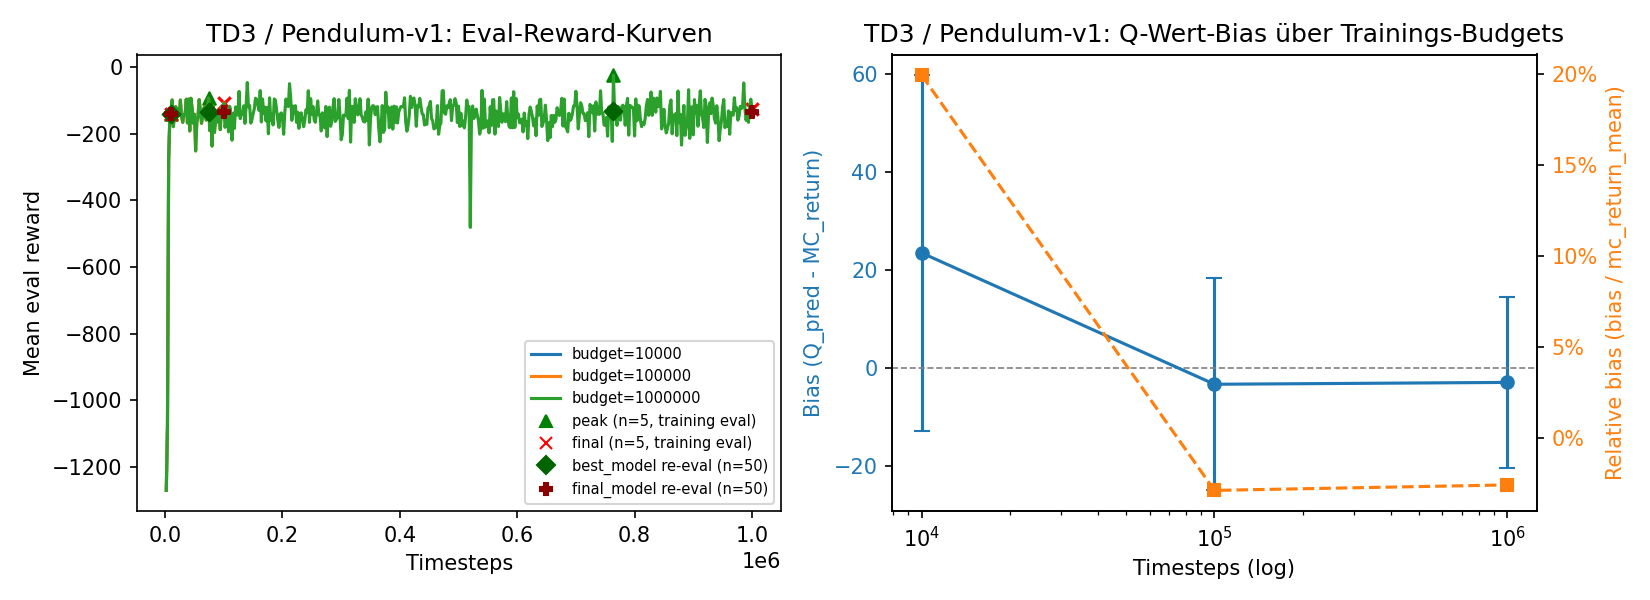
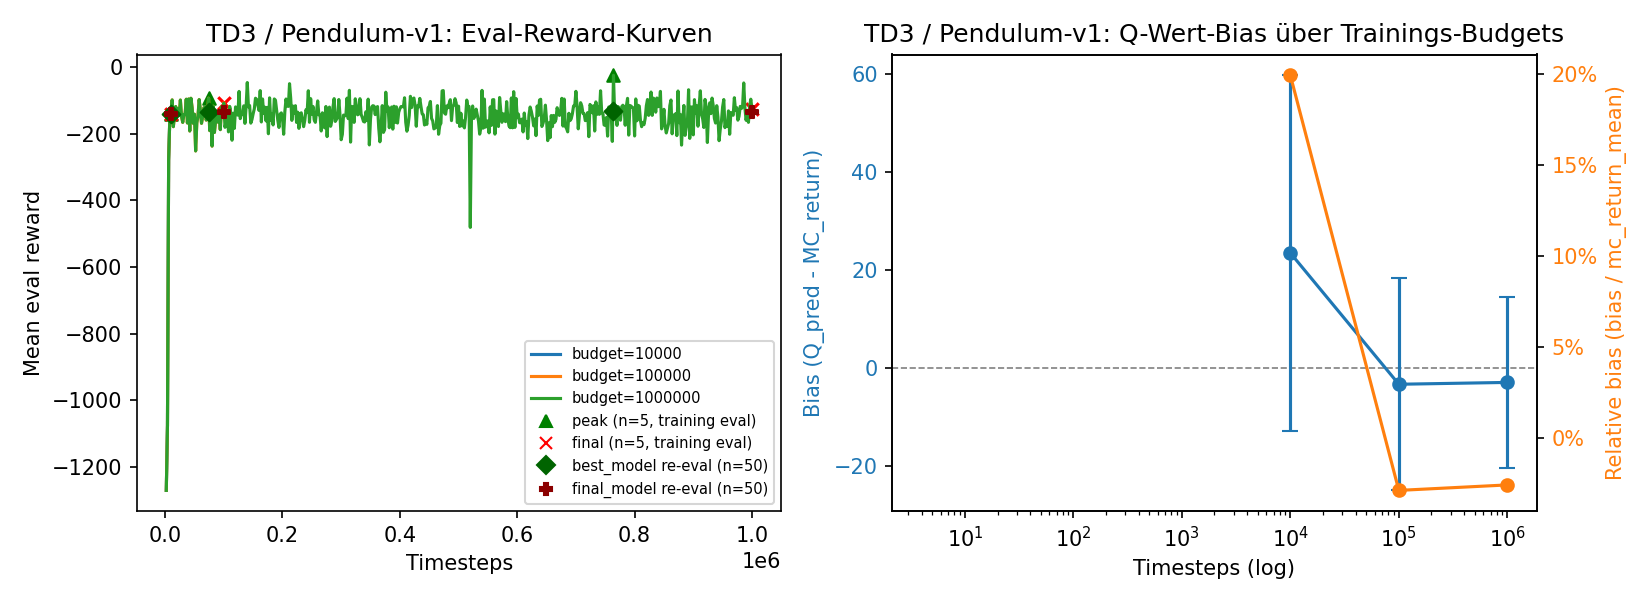
evaluate models

diff --git a/evaluate_models.py b/evaluate_models.py
@@ -34,10 +34,12 @@ from pathlib import Path
 import gymnasium as gym
 import matplotlib.pyplot as plt
 import numpy as np
+from gymnasium import spaces
 from stable_baselines3 import DQN, SAC, TD3
 from stable_baselines3.common.evaluation import evaluate_policy
 
 from Qvalue_bias import estimate_bias_over_random_states
+from train import DiscretizeActionWrapper
 
 ALGOS = {"dqn": DQN, "sac": SAC, "td3": TD3}
 
@@ -75,9 +77,21 @@ def eval_curve_stats(eval_npz_path: Path) -> dict:
     }
 
 
+def make_analysis_env(algo: str, env_id: str) -> gym.Env:
+    """Builds an env matching how the model was actually trained. DQN on a
+    continuous-action env (Pendulum) was trained through DiscretizeActionWrapper
+    (see train.py), so bias/re-eval must use the same wrapper or actions
+    won't match what the network expects.
+    """
+    env = gym.make(env_id)
+    if algo == "dqn" and isinstance(env.action_space, spaces.Box):
+        env = DiscretizeActionWrapper(env)
+    return env
+
+
 def bias_stats(algo: str, env_id: str, run_dir: Path) -> dict:
     model = ALGOS[algo].load(run_dir / "final_model")
-    env = gym.make(env_id)
+    env = make_analysis_env(algo, env_id)
     env.reset(seed=BIAS_SEED)
 
     result = estimate_bias_over_random_states(model, env, n_states=BIAS_N_STATES)
@@ -106,7 +120,7 @@ def re_evaluate(algo: str, env_id: str, model_path: Path) -> dict:
     a free cross-check against the peak_timestep read from evaluations.npz.
     """
     model = ALGOS[algo].load(model_path)
-    env = gym.make(env_id)
+    env = make_analysis_env(algo, env_id)
     env.reset(seed=RE_EVAL_SEED)
 
     mean_reward, std_reward = evaluate_policy(
@@ -162,6 +176,9 @@ def evaluate_run(run_dir: Path) -> dict:
 
     row = {
         "run_name": run_dir.name,
+        # "_old" runs share the exact same (algo, env_id, timesteps) as the
+        # current ones (retrained on main with identical config)
+        "variant": "old" if run_dir.name.endswith("_old") else "new",
         "algo": config["algo"],
         "env_id": config["env_id"],
         "timesteps": config["timesteps"],
@@ -175,7 +192,7 @@ def evaluate_run(run_dir: Path) -> dict:
 
 def write_csv(rows: list[dict], path: Path) -> None:
     fieldnames = [
-        "run_name", "algo", "env_id", "timesteps", "seed",
+        "run_name", "variant", "algo", "env_id", "timesteps", "seed",
         "peak_timestep", "peak_mean", "final_timestep", "final_mean",
         "degradation", "degradation_pct", "curve_std",
         "bias_mean", "bias_std", "relative_bias", "q_pred_mean", "mc_return_mean",
@@ -190,13 +207,16 @@ def write_csv(rows: list[dict], path: Path) -> None:
 
 
 def plot_algo(algo: str, env_id: str, rows: list[dict], out_path: Path) -> None:
-    rows = sorted(rows, key=lambda r: r["timesteps"])
+    rows = sorted(rows, key=lambda r: (r["variant"], r["timesteps"]))
     fig, (ax_curve, ax_bias) = plt.subplots(1, 2, figsize=(11, 4))
 
     for row in rows:
+        variant_suffix = f" [{row['variant']}]" if row["variant"] != "new" else ""
+        curve_linestyle = "--" if row["variant"] == "old" else "-"
         ax_curve.plot(
             row["eval_timesteps"], row["eval_means"],
-            label=f"budget={row['timesteps']}",
+            label=f"budget={row['timesteps']}{variant_suffix}",
+            linestyle=curve_linestyle,
         )
         ax_curve.scatter([row["peak_timestep"]], [row["peak_mean"]], marker="^", color="green")
         ax_curve.scatter([row["final_timestep"]], [row["final_mean"]], marker="x", color="red")
@@ -224,12 +244,6 @@ def plot_algo(algo: str, env_id: str, rows: list[dict], out_path: Path) -> None:
     ]
     ax_curve.legend(handles=handles, fontsize=7)
 
-    budgets = [r["timesteps"] for r in rows]
-    bias_means = [r["bias_mean"] for r in rows]
-    bias_stds = [r["bias_std"] for r in rows]
-    relative_bias = [r["relative_bias"] for r in rows]
-
-    ax_bias.errorbar(budgets, bias_means, yerr=bias_stds, marker="o", capsize=4, color="C0")
     ax_bias.axhline(0, color="gray", linewidth=0.8, linestyle="--")
     ax_bias.set_xscale("log")
     ax_bias.set_title(f"{algo.upper()} / {env_id}: Q-Wert-Bias über Trainings-Budgets")
@@ -241,10 +255,32 @@ def plot_algo(algo: str, env_id: str, rows: list[dict], out_path: Path) -> None:
     # return scale itself changes a lot (untrained vs. maxed-out model),
     # therefore also show relative_bias (bias / mc_return_mean) as a second axis
     ax_bias_rel = ax_bias.twinx()
-    ax_bias_rel.plot(budgets, relative_bias, marker="s", linestyle="--", color="C1")
     ax_bias_rel.set_ylabel("Relative bias (bias / mc_return_mean)", color="C1")
     ax_bias_rel.tick_params(axis="y", labelcolor="C1")
     ax_bias_rel.yaxis.set_major_formatter(lambda y, _: f"{y:.0%}")
+
+    variants_present = sorted({r["variant"] for r in rows}, key=lambda v: v != "new")
+    for variant, marker, bias_linestyle in zip(variants_present, ["o", "v"], ["-", "--"]):
+        variant_rows = [r for r in rows if r["variant"] == variant]
+        budgets = [r["timesteps"] for r in variant_rows]
+        bias_means = [r["bias_mean"] for r in variant_rows]
+        bias_stds = [r["bias_std"] for r in variant_rows]
+        relative_bias = [r["relative_bias"] for r in variant_rows]
+        suffix = "" if variant == "new" else f" [{variant}]"
+
+        ax_bias.errorbar(
+            budgets, bias_means, yerr=bias_stds, marker=marker, linestyle=bias_linestyle,
+            capsize=4, color="C0", label=f"bias{suffix}",
+        )
+        ax_bias_rel.plot(
+            budgets, relative_bias, marker=marker, linestyle=bias_linestyle,
+            color="C1", label=f"relative_bias{suffix}",
+        )
+
+    if len(variants_present) > 1:
+        lines1, labels1 = ax_bias.get_legend_handles_labels()
+        lines2, labels2 = ax_bias_rel.get_legend_handles_labels()
+        ax_bias.legend(lines1 + lines2, labels1 + labels2, fontsize=7)
 
     fig.tight_layout()
     fig.savefig(out_path, dpi=150)
@@ -252,16 +288,17 @@ def plot_algo(algo: str, env_id: str, rows: list[dict], out_path: Path) -> None:
 
 
 def print_summary(rows: list[dict]) -> None:
-    by_algo: dict[str, list[dict]] = {}
+    by_group: dict[tuple[str, str], list[dict]] = {}
     for row in rows:
-        by_algo.setdefault(row["algo"], []).append(row)
+        by_group.setdefault((row["algo"], row["env_id"]), []).append(row)
 
-    for algo, algo_rows in by_algo.items():
-        algo_rows = sorted(algo_rows, key=lambda r: r["timesteps"])
-        print(f"\n=== {algo.upper()} ({algo_rows[0]['env_id']}) ===")
-        for row in algo_rows:
+    for (algo, env_id), group_rows in by_group.items():
+        group_rows = sorted(group_rows, key=lambda r: (r["variant"], r["timesteps"]))
+        print(f"\n=== {algo.upper()} ({env_id}) ===")
+        for row in group_rows:
+            variant_suffix = f" [{row['variant']}]" if row["variant"] != "new" else ""
             print(
-                f"  steps={row['timesteps']:>8} | "
+                f"  steps={row['timesteps']:>8}{variant_suffix} | "
                 f"peak={row['peak_mean']:8.1f}@{row['peak_timestep']:<7} "
                 f"final={row['final_mean']:8.1f} "
                 f"degradation={row['degradation']:+7.1f} ({row['degradation_pct']:+.1%}) | "
